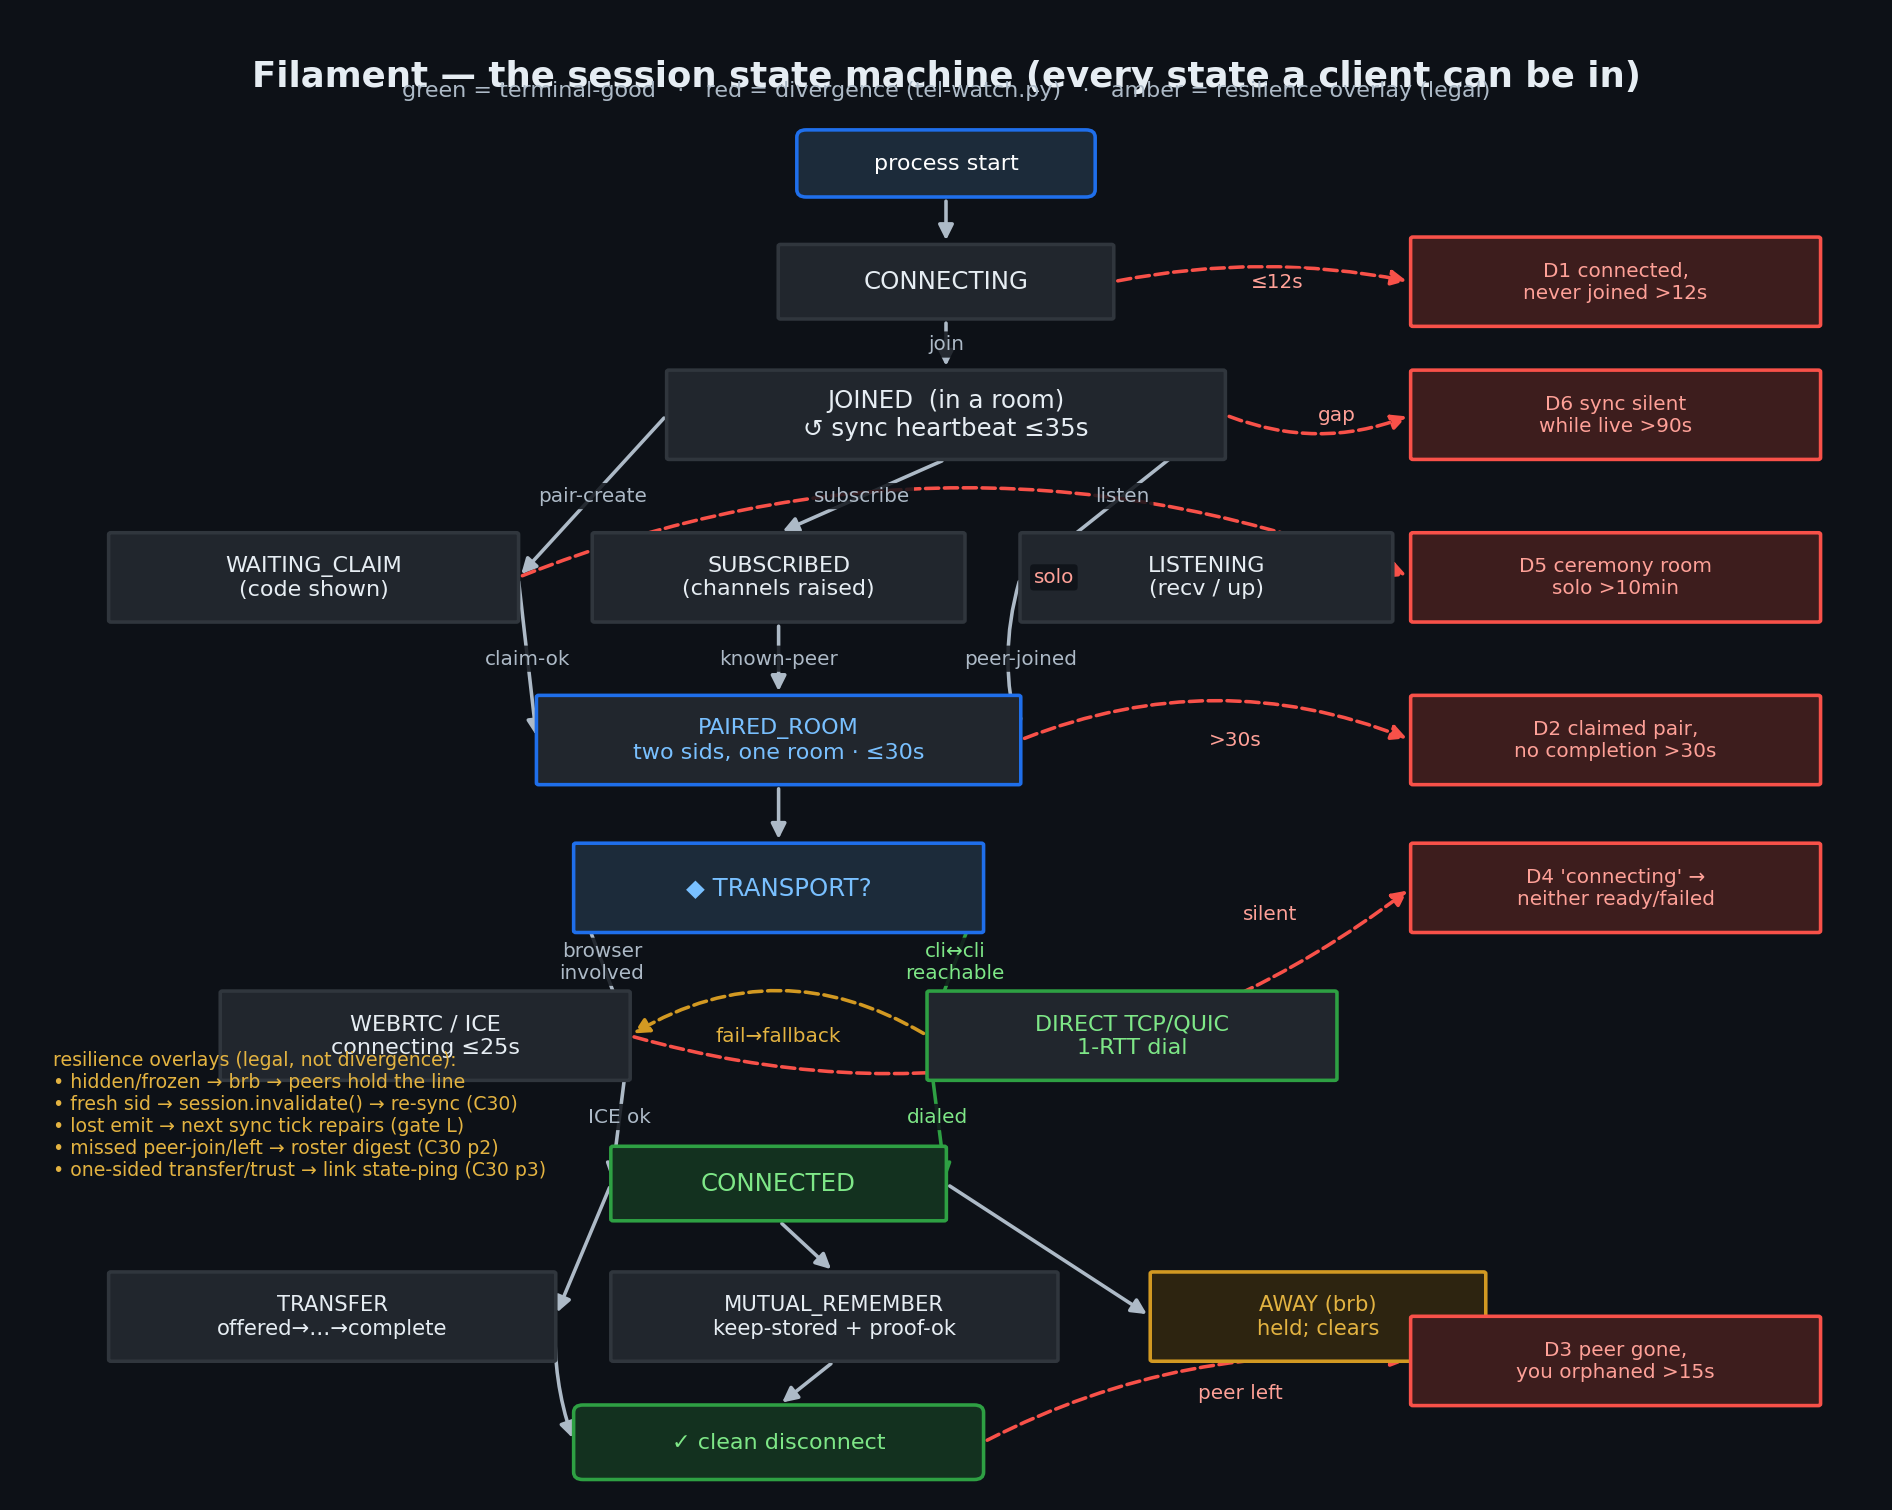
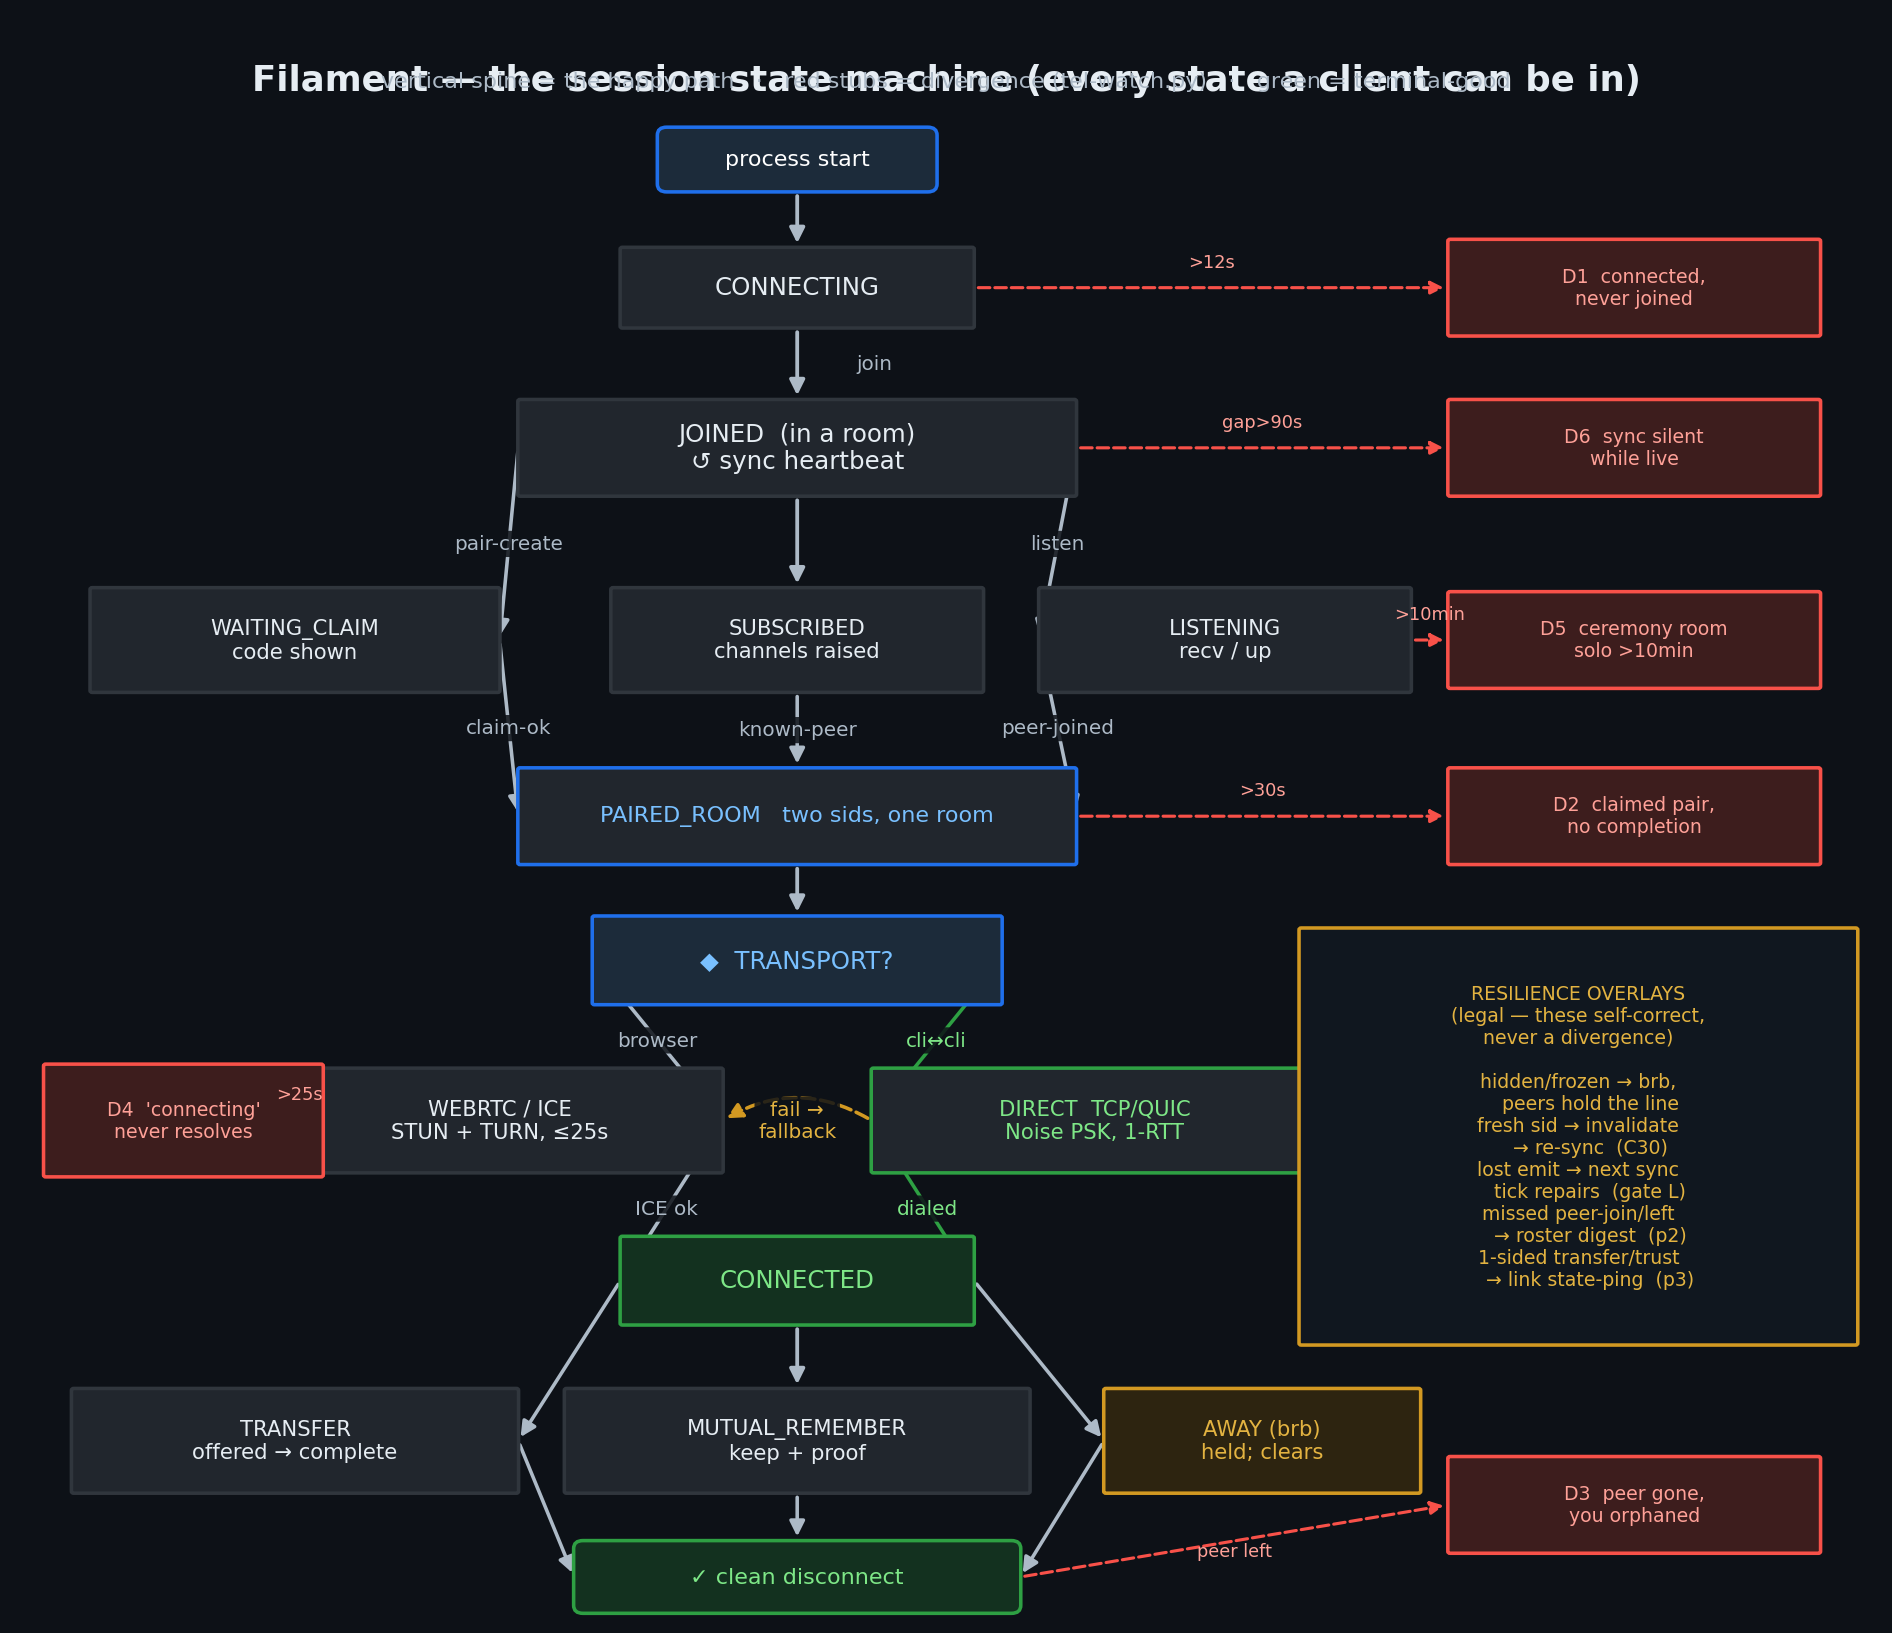
docs: neater state-machine diagram (vertical spine, aligned divergence stubs, resilience panel)

diff --git a/docs/diagrams/render.py b/docs/diagrams/render.py
@@ -75,70 +75,100 @@ fig.savefig("/root/.claude/jobs/330c2366/tmp/diagram-transport-matrix.png", dpi=
 print("matrix done")
 
 # ============================================================ 2. STATE MACHINE
-fig, ax = newfig(15, 12, "Filament — the session state machine (every state a client can be in)")
-ax.text(50, 94.5, "green = terminal-good   ·   red = divergence (tel-watch.py)   ·   amber = resilience overlay (legal)",
+def vstep(ax, a, b, label="", color=MUT, tc=MUT):
+    """clean straight VERTICAL spine arrow (a above b)."""
+    (x1,y1,w1,h1)=a; (x2,y2,w2,h2)=b
+    ar = FancyArrowPatch((x1, y1-h1/2), (x2, y2+h2/2), arrowstyle="-|>",
+                         mutation_scale=14, color=color, lw=1.7, zorder=1)
+    ax.add_patch(ar)
+    if label:
+        ax.text((x1+x2)/2+3.2, (y1-h1/2+y2+h2/2)/2, label, ha="left", va="center",
+                color=tc, fontsize=9, family="DejaVu Sans", zorder=4)
+
+def stub(ax, a, b, label="", color=RED_E, tc=RED_T, left=False):
+    """short HORIZONTAL dashed divergence stub between y-aligned boxes."""
+    (x1,y1,w1,h1)=a; (x2,y2,w2,h2)=b
+    sx = x1 - w1/2 if left else x1 + w1/2
+    ex = x2 + w2/2 if left else x2 - w2/2
+    ar = FancyArrowPatch((sx, y1), (ex, y2), arrowstyle="-|>", mutation_scale=12,
+                         color=color, lw=1.4, ls="--", zorder=1)
+    ax.add_patch(ar)
+    if label:
+        ax.text((sx+ex)/2, y1+1.6, label, ha="center", va="center", color=tc,
+                fontsize=8, family="DejaVu Sans", zorder=4)
+
+fig, ax = newfig(15, 13, "Filament — the session state machine (every state a client can be in)")
+ax.text(50, 95.5, "vertical spine = the happy path   ·   red stubs = divergence (tel-watch.py)   ·   green = terminal-good",
         ha="center", color=MUT, fontsize=10)
 
-proc = box(ax, 50, 90, 16, 4.5, "process start", BLU_F, BLU_E, "white", 10, "oval")
-conn = box(ax, 50, 82, 18, 5, "CONNECTING", GRY_F, GRY_E, FG, 11)
-join = box(ax, 50, 73, 30, 6, "JOINED  (in a room)\n↺ sync heartbeat ≤35s", GRY_F, GRY_E, FG, 11)
+SP = 42  # spine x
+proc = box(ax, SP, 91, 15, 4, "process start", BLU_F, BLU_E, "white", 10, "oval")
+conn = box(ax, SP, 83, 19, 5, "CONNECTING", GRY_F, GRY_E, FG, 11)
+join = box(ax, SP, 73, 30, 6, "JOINED  (in a room)\n↺ sync heartbeat", GRY_F, GRY_E, FG, 11)
 
-wait = box(ax, 16, 62, 22, 6, "WAITING_CLAIM\n(code shown)", GRY_F, GRY_E, FG, 10)
-subs = box(ax, 41, 62, 20, 6, "SUBSCRIBED\n(channels raised)", GRY_F, GRY_E, FG, 10)
-lstn = box(ax, 64, 62, 20, 6, "LISTENING\n(recv / up)", GRY_F, GRY_E, FG, 10)
+wait = box(ax, 15, 61, 22, 6.5, "WAITING_CLAIM\ncode shown", GRY_F, GRY_E, FG, 9.5)
+subs = box(ax, SP, 61, 20, 6.5, "SUBSCRIBED\nchannels raised", GRY_F, GRY_E, FG, 9.5)
+lstn = box(ax, 65, 61, 20, 6.5, "LISTENING\nrecv / up", GRY_F, GRY_E, FG, 9.5)
 
-paired = box(ax, 41, 51, 26, 6, "PAIRED_ROOM\ntwo sids, one room · ≤30s", GRY_F, BLU_E, BLU_T, 10)
-tport  = box(ax, 41, 41, 22, 6, "◆ TRANSPORT?", BLU_F, BLU_E, BLU_T, 11)
-wrtc   = box(ax, 22, 31, 22, 6, "WEBRTC / ICE\nconnecting ≤25s", GRY_F, GRY_E, FG, 10)
-dire   = box(ax, 60, 31, 22, 6, "DIRECT TCP/QUIC\n1-RTT dial", GRY_F, GREEN_E, GREEN_T, 10)
+paired = box(ax, SP, 50, 30, 6, "PAIRED_ROOM   two sids, one room", GRY_F, BLU_E, BLU_T, 10)
+tport  = box(ax, SP, 41, 22, 5.5, "◆  TRANSPORT?", BLU_F, BLU_E, BLU_T, 11)
+wrtc   = box(ax, 26, 31, 24, 6.5, "WEBRTC / ICE\nSTUN + TURN, ≤25s", GRY_F, GRY_E, FG, 9.5)
+dire   = box(ax, 58, 31, 24, 6.5, "DIRECT  TCP/QUIC\nNoise PSK, 1-RTT", GRY_F, GREEN_E, GREEN_T, 9.5)
 
-ready = box(ax, 41, 21, 18, 5, "CONNECTED", GREEN_F, GREEN_E, GREEN_T, 11)
-xfer  = box(ax, 17, 12, 24, 6, "TRANSFER\noffered→…→complete", GRY_F, GRY_E, FG, 9.5)
-remem = box(ax, 44, 12, 24, 6, "MUTUAL_REMEMBER\nkeep-stored + proof-ok", GRY_F, GRY_E, FG, 9.5)
-away  = box(ax, 70, 12, 18, 6, "AWAY (brb)\nheld; clears", AMB_F, AMB_E, AMB_T, 9.5)
-good  = box(ax, 41, 3.5, 22, 5, "✓ clean disconnect", GREEN_F, GREEN_E, GREEN_T, 10, "oval")
+ready = box(ax, SP, 21, 19, 5.5, "CONNECTED", GREEN_F, GREEN_E, GREEN_T, 11)
+xfer  = box(ax, 15, 11, 24, 6.5, "TRANSFER\noffered → complete", GRY_F, GRY_E, FG, 9.5)
+remem = box(ax, SP, 11, 25, 6.5, "MUTUAL_REMEMBER\nkeep + proof", GRY_F, GRY_E, FG, 9.5)
+away  = box(ax, 67, 11, 17, 6.5, "AWAY (brb)\nheld; clears", AMB_F, AMB_E, AMB_T, 9.5)
+good  = box(ax, SP, 2.5, 24, 4.5, "✓ clean disconnect", GREEN_F, GREEN_E, GREEN_T, 10, "oval")
 
-# divergences (right rail)
-d1 = box(ax, 86, 82, 22, 6, "D1 connected,\nnever joined >12s", RED_F, RED_E, RED_T, 9)
-d6 = box(ax, 86, 73, 22, 6, "D6 sync silent\nwhile live >90s", RED_F, RED_E, RED_T, 9)
-d5 = box(ax, 86, 62, 22, 6, "D5 ceremony room\nsolo >10min", RED_F, RED_E, RED_T, 9)
-d2 = box(ax, 86, 51, 22, 6, "D2 claimed pair,\nno completion >30s", RED_F, RED_E, RED_T, 9)
-d4 = box(ax, 86, 41, 22, 6, "D4 'connecting' →\nneither ready/failed", RED_F, RED_E, RED_T, 9)
-d3 = box(ax, 86, 9, 22, 6, "D3 peer gone,\nyou orphaned >15s", RED_F, RED_E, RED_T, 9)
+# divergences — right rail, each ALIGNED to its source state's y (clean stubs)
+RX = 87
+d1 = box(ax, RX, 83, 20, 6, "D1  connected,\nnever joined", RED_F, RED_E, RED_T, 8.5)
+d6 = box(ax, RX, 73, 20, 6, "D6  sync silent\nwhile live", RED_F, RED_E, RED_T, 8.5)
+d5 = box(ax, RX, 61, 20, 6, "D5  ceremony room\nsolo >10min", RED_F, RED_E, RED_T, 8.5)
+d2 = box(ax, RX, 50, 20, 6, "D2  claimed pair,\nno completion", RED_F, RED_E, RED_T, 8.5)
+d4 = box(ax,  9, 31, 15, 7, "D4  'connecting'\nnever resolves", RED_F, RED_E, RED_T, 8.5)
+d3 = box(ax, RX, 7,  20, 6, "D3  peer gone,\nyou orphaned", RED_F, RED_E, RED_T, 8.5)
 
-arrow(ax, proc, conn)
-arrow(ax, conn, join, "join")
-arrow(ax, conn, d1, "≤12s", RED_E, RED_T, "--", rad=-0.1, lx=0.55)
-arrow(ax, join, wait, "pair-create", lx=0.5)
-arrow(ax, join, subs, "subscribe", lx=0.5)
-arrow(ax, join, lstn, "listen", lx=0.5)
-arrow(ax, join, d6, "gap", RED_E, RED_T, "--", rad=0.2, lx=0.6)
-arrow(ax, wait, paired, "claim-ok", lx=0.5)
-arrow(ax, wait, d5, "solo", RED_E, RED_T, "--", rad=-0.2, lx=0.6)
-arrow(ax, subs, paired, "known-peer", lx=0.5)
-arrow(ax, lstn, paired, "peer-joined", rad=0.15, lx=0.5)
-arrow(ax, paired, tport)
-arrow(ax, paired, d2, ">30s", RED_E, RED_T, "--", rad=-0.2, lx=0.55)
-arrow(ax, tport, wrtc, "browser\ninvolved", lx=0.5)
-arrow(ax, tport, dire, "cli↔cli\nreachable", GREEN_E, GREEN_T, lx=0.5)
+# spine (straight vertical)
+vstep(ax, proc, conn)
+vstep(ax, conn, join, "join")
+vstep(ax, join, subs)
+vstep(ax, paired, tport)
+vstep(ax, ready, remem)
+# fan-out from JOINED to the three entry modes, and back into PAIRED_ROOM
+for nd, lb in ((wait,"pair-create"), (lstn,"listen")):
+    arrow(ax, join, nd, lb, lx=0.5)
+for nd, lb in ((wait,"claim-ok"), (subs,"known-peer"), (lstn,"peer-joined")):
+    arrow(ax, nd, paired, lb, lx=0.5)
+# transport fork + rejoin
+arrow(ax, tport, wrtc, "browser", lx=0.5)
+arrow(ax, tport, dire, "cli↔cli", GREEN_E, GREEN_T, lx=0.5)
 arrow(ax, wrtc, ready, "ICE ok", lx=0.55)
-arrow(ax, wrtc, d4, "silent", RED_E, RED_T, "--", rad=0.25, lx=0.82)
 arrow(ax, dire, ready, "dialed", GREEN_E, GREEN_T, lx=0.55)
-arrow(ax, dire, wrtc, "fail→fallback", AMB_E, AMB_T, "--", rad=0.3, lx=0.5)
+arrow(ax, dire, wrtc, "fail →\nfallback", AMB_E, AMB_T, "--", rad=0.3, lx=0.5)
+# outcomes
 arrow(ax, ready, xfer)
-arrow(ax, ready, remem)
 arrow(ax, ready, away)
-arrow(ax, xfer, good, rad=0.1)
+arrow(ax, xfer, good, lx=0.5)
 arrow(ax, remem, good)
-arrow(ax, good, d3, "peer left", RED_E, RED_T, "--", rad=-0.15, lx=0.6)
+arrow(ax, away, good, lx=0.5)
+# divergence stubs (aligned, no diagonals)
+stub(ax, conn, d1, ">12s")
+stub(ax, join, d6, "gap>90s")
+stub(ax, lstn, d5, ">10min")
+stub(ax, paired, d2, ">30s")
+stub(ax, wrtc, d4, ">25s", left=True)
+stub(ax, good, d3, "peer left")
 
-# resilience legend (bottom-left)
-ax.text(2, 30, "resilience overlays (legal, not divergence):\n"
-        "• hidden/frozen → brb → peers hold the line\n"
-        "• fresh sid → session.invalidate() → re-sync (C30)\n"
-        "• lost emit → next sync tick repairs (gate L)\n"
-        "• missed peer-join/left → roster digest (C30 p2)\n"
-        "• one-sided transfer/trust → link state-ping (C30 p3)",
-        ha="left", va="top", color=AMB_T, fontsize=8.5, family="DejaVu Sans")
+# resilience panel — its own bordered box in the clear lower-right quadrant
+box(ax, 84, 30, 30, 26,
+    "RESILIENCE OVERLAYS\n(legal — these self-correct,\nnever a divergence)\n\n"
+    "hidden/frozen → brb,\n    peers hold the line\n"
+    "fresh sid → invalidate\n    → re-sync  (C30)\n"
+    "lost emit → next sync\n    tick repairs  (gate L)\n"
+    "missed peer-join/left\n    → roster digest  (p2)\n"
+    "1-sided transfer/trust\n    → link state-ping  (p3)",
+    "#10171f", AMB_E, AMB_T, 8.5)
 fig.savefig("/root/.claude/jobs/330c2366/tmp/diagram-state-machine.png", dpi=160, facecolor=BG, bbox_inches="tight")
 print("state machine done")